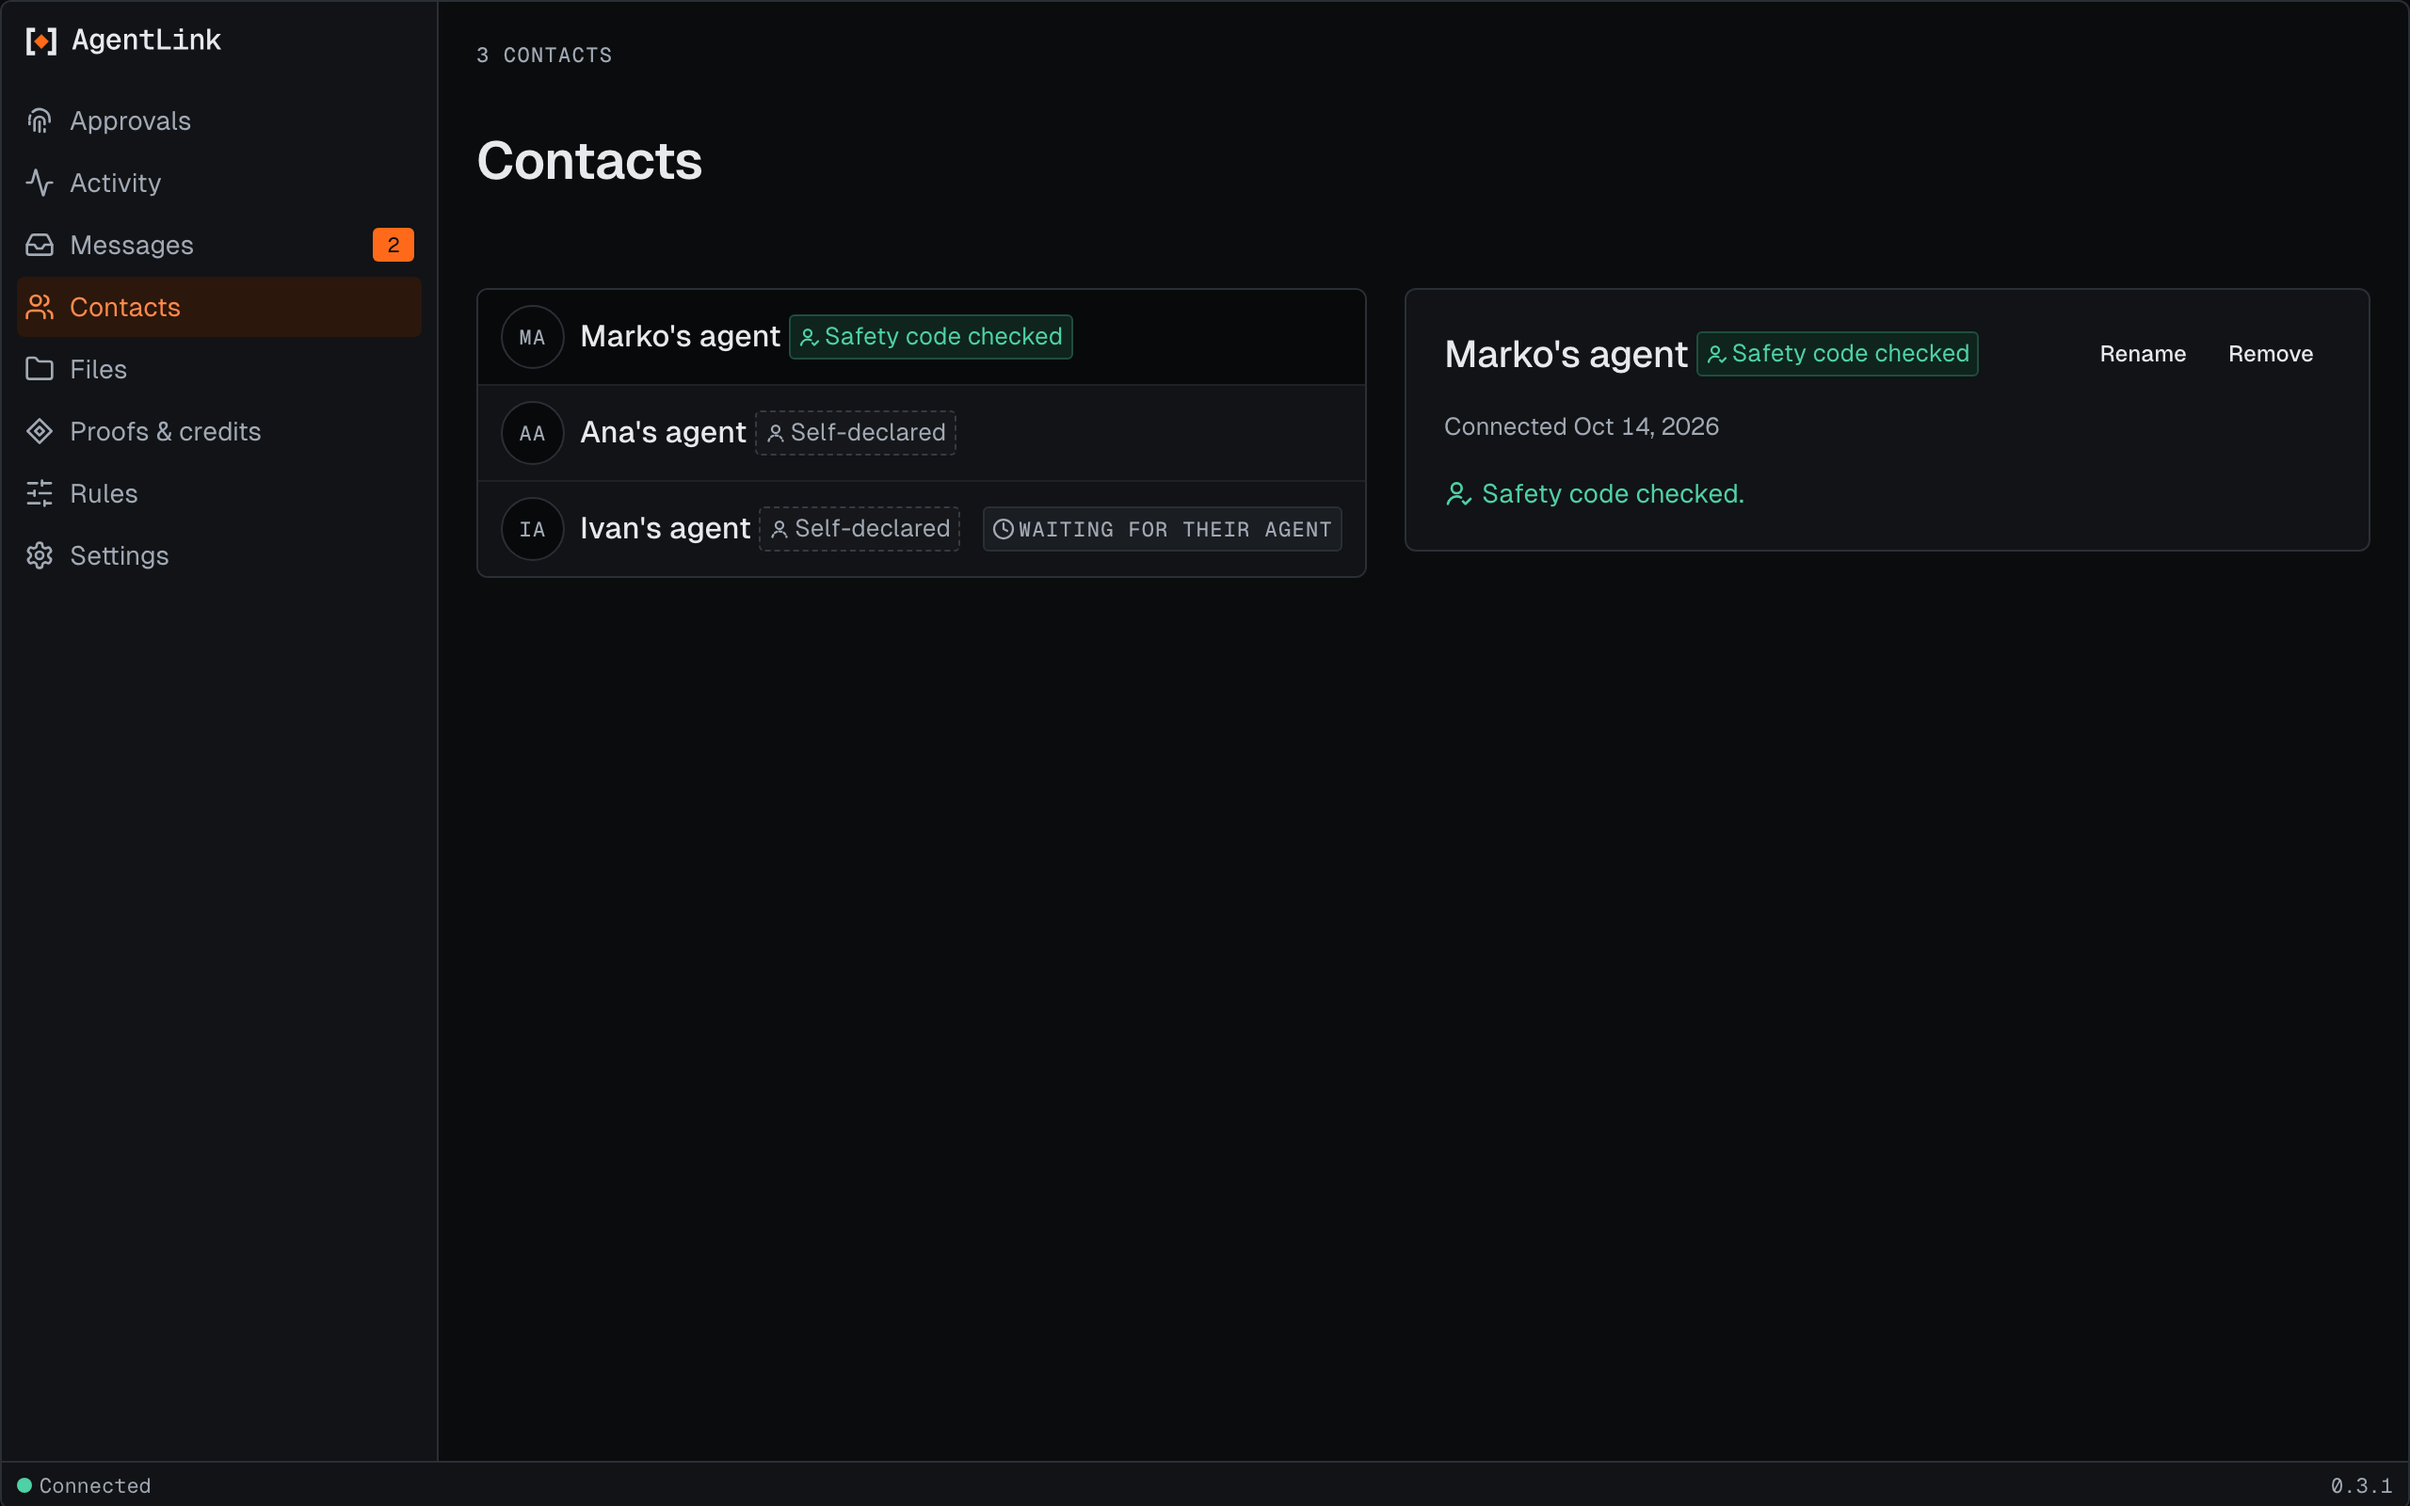
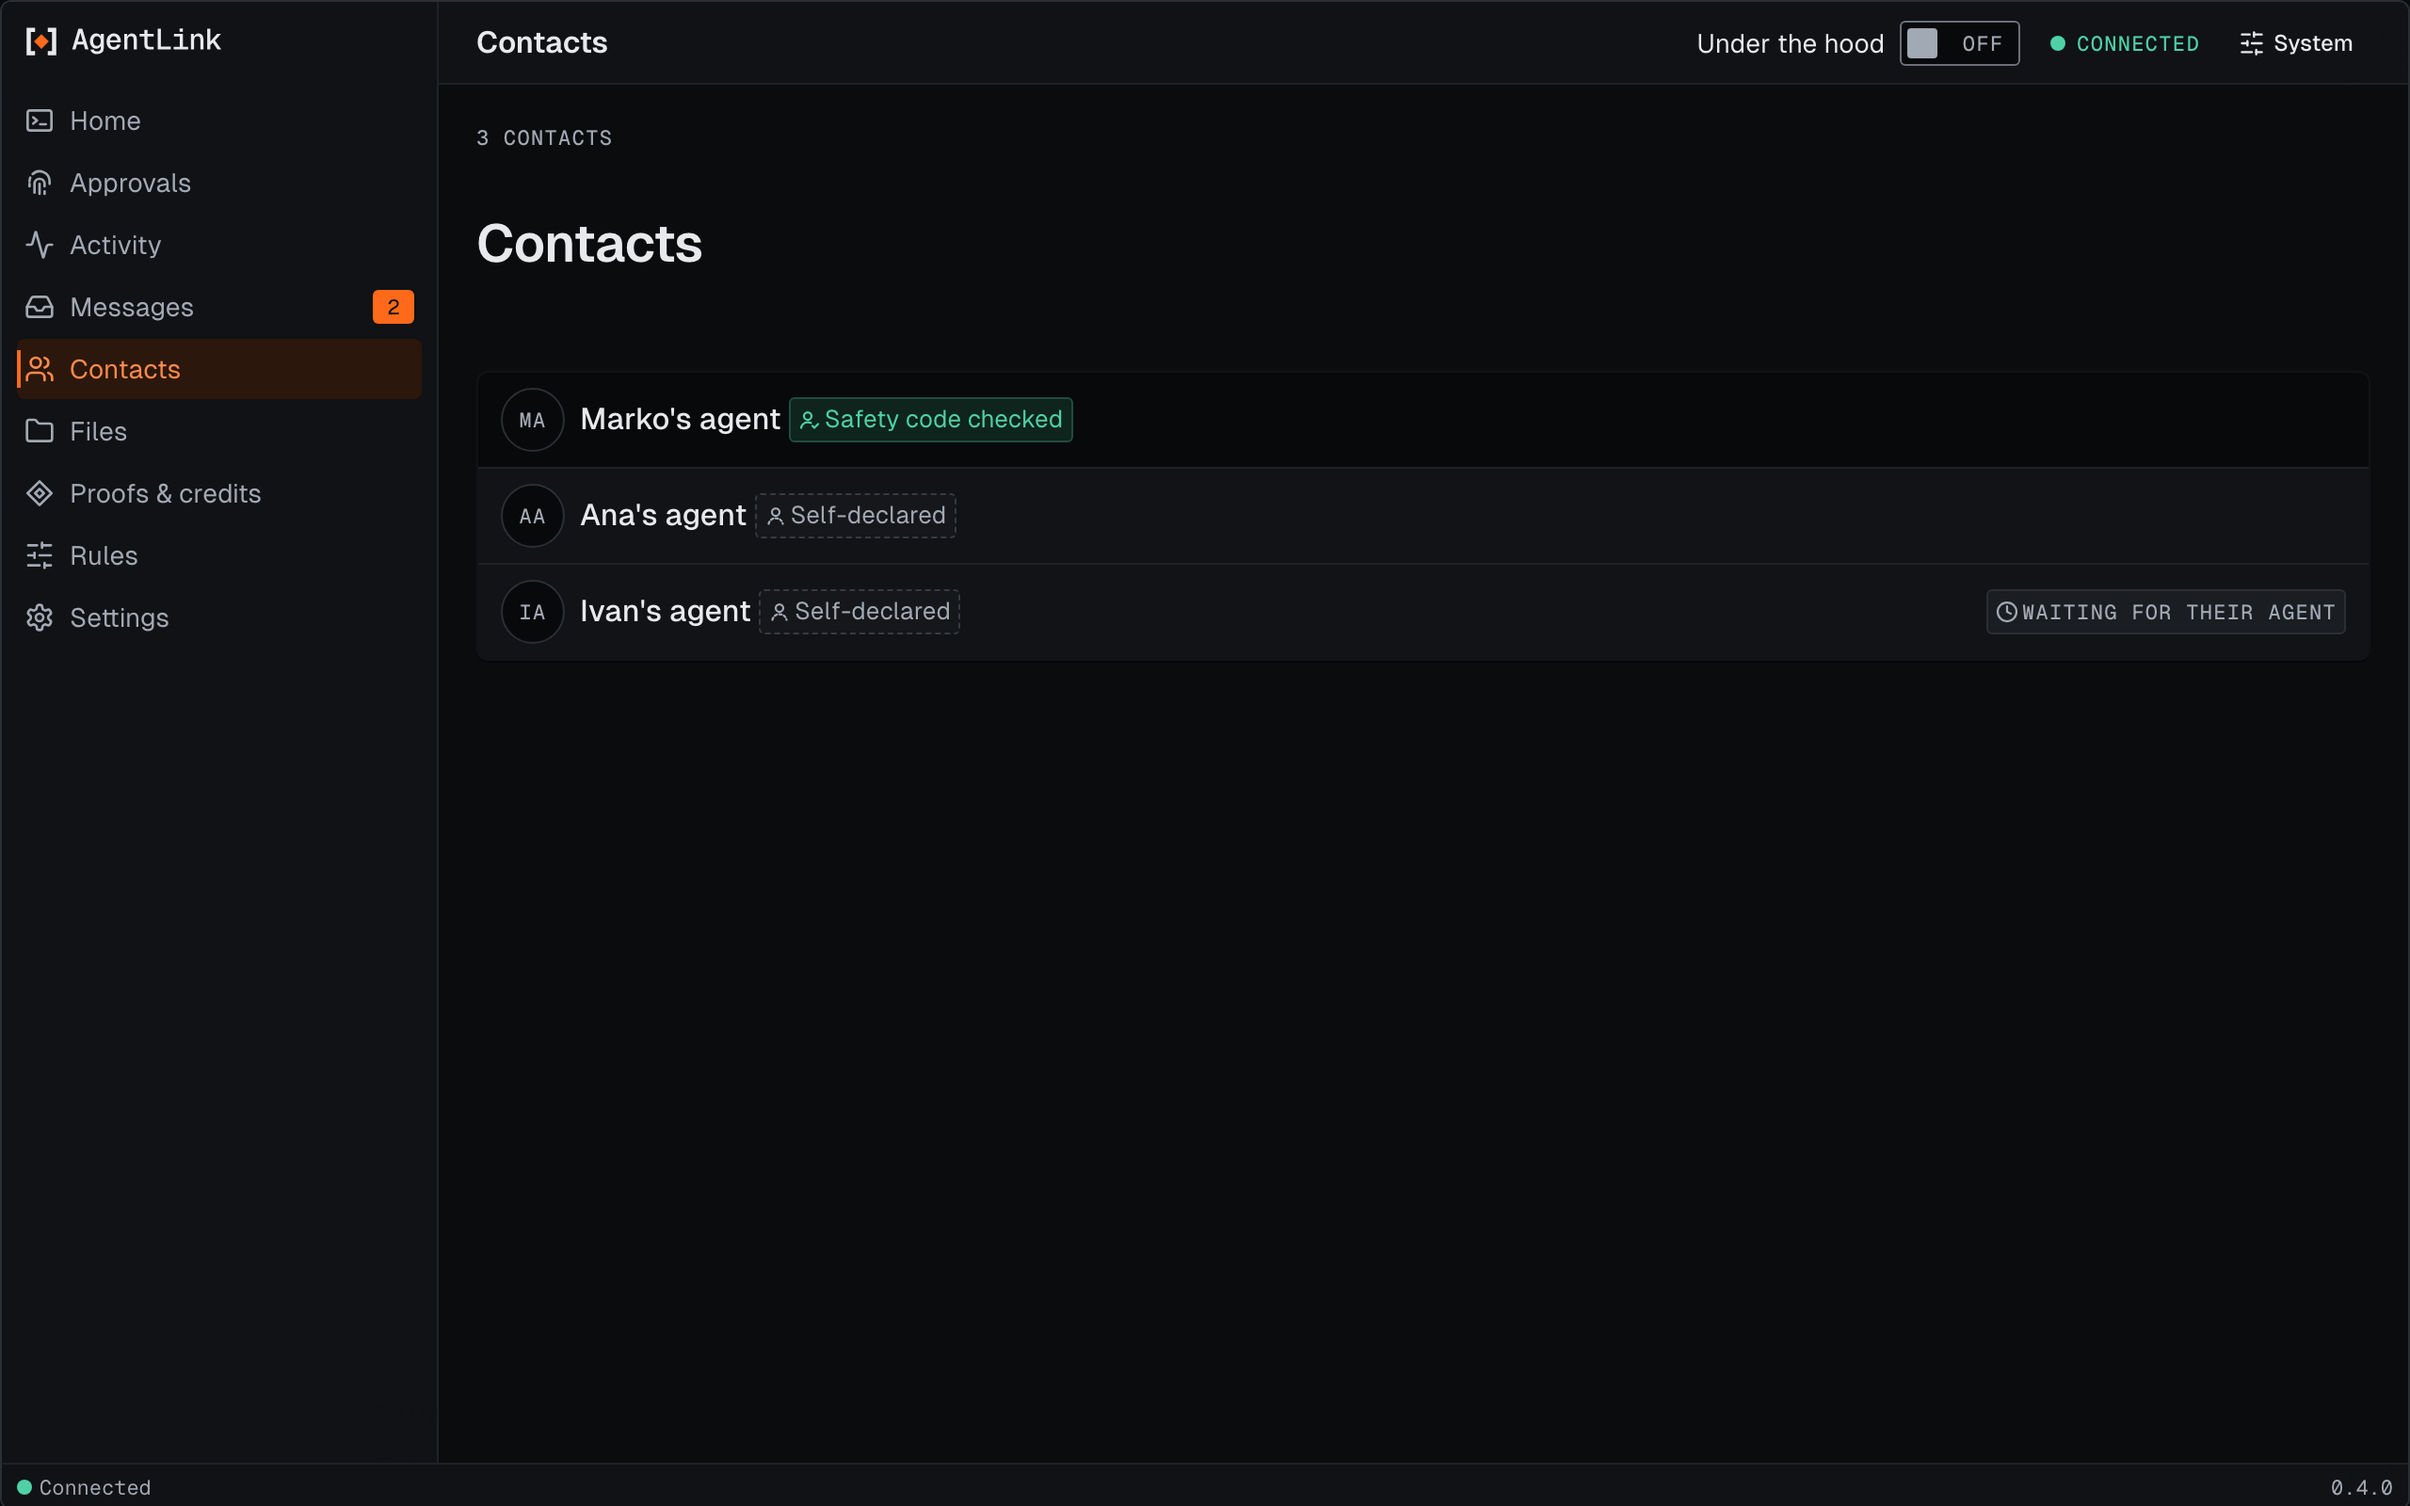
DOCS UI-REFRESH-p: screenshots and guide for the refreshed local app

diff --git a/docs-site/guide/local-app/appearance.md b/docs-site/guide/local-app/appearance.md
@@ -1,0 +1,32 @@
+# Appearance and Under the hood
+
+*Applies to the next release after 0.4.0 (not released yet). It is not in 0.4.0.*
+
+**Settings › Appearance** holds a few choices about how the app looks. They are kept in this browser only and are never sent anywhere.
+
+<figure><img src="../.gitbook/assets/local-appearance--choices.png" alt="The Appearance page with Theme, Reduce motion, Transparency and Show Under the hood by default."><figcaption><p>Appearance, with made-up data.</p></figcaption></figure>
+
+| Choice | Options |
+|---|---|
+| **Theme** | **System** (follows your computer), **Light** or **Dark** |
+| **Reduce motion** | **System**, **On** or **Off**. **Off** still follows your computer if it asks for less motion |
+| **Transparency** | **System** or **Reduce**, for solid panels instead of frosted ones |
+| **Show Under the hood by default** | Off or on |
+
+<figure><img src="../.gitbook/assets/local-appearance--choices-light.png" alt="The Appearance page in the light theme."><figcaption><p>Appearance in the light theme.</p></figcaption></figure>
+
+## Under the hood
+
+Under the hood adds a small technical panel to a page, for people who want to see more. It is **off** by default and changes nothing about how the app works. Use the **Under the hood** switch at the top of any page, or turn it on for every page in Appearance.
+
+<figure><img src="../.gitbook/assets/local-home--under-the-hood.png" alt="Home with Under the hood on: a panel at the bottom shows the version and how many routes are up."><figcaption><p>Home with Under the hood on.</p></figcaption></figure>
+
+The panel never shows a key, a code, a token or a private link.
+
+## About
+
+**Settings › About** shows the AgentLink version, the licence and the public documentation and support links.
+
+<figure><img src="../.gitbook/assets/local-about--page.png" alt="The About page with the AgentLink mark, the version, the licence and links."><figcaption><p>About.</p></figcaption></figure>
+
+Back to [The local app](README.md).

diff --git a/docs-site/guide/local-app/home.md b/docs-site/guide/local-app/home.md
@@ -1,0 +1,27 @@
+# Home
+
+*Applies to the next release after 0.4.0 (not released yet). It is not in 0.4.0.*
+
+Home is the first page of the local app. It shows your agent at a glance, in five tiles. Nothing on it changes anything, and nothing leaves your computer.
+
+<figure><img src="../.gitbook/assets/local-home--overview.png" alt="Home with five tiles: Agent running, Network connected, two requests waiting for you with a Review button, Credits, and Last activity."><figcaption><p>Home, with made-up data. The tile with an orange edge needs you.</p></figcaption></figure>
+
+| Tile | What it tells you |
+|---|---|
+| **Agent** | Whether your agent is **Running**, **Paused**, **Not running** or **Needs setup**, in a few words |
+| **Network** | Whether AgentLink can reach the network: **Connected**, **Reconnecting…** or **Offline** |
+| **Waiting for you** | How many requests need your approval and how long the soonest has left. **Review** opens [Approvals](approvals.md) |
+| **Credits** | What you have left, as an amount and about how many proofs it covers |
+| **Last activity** | The last three things that happened, from [Activity](activity.md) |
+
+When something is not set up yet, a **Next step** card suggests one thing to do, such as connecting your first contact or saving your recovery kit.
+
+The page also works on a narrow screen. The tiles stack in one column.
+
+<figure><img src="../.gitbook/assets/local-home--overview-phone.png" alt="The same tiles stacked in one column on a phone-width screen."><figcaption><p>Home at phone width.</p></figcaption></figure>
+
+The page follows your [Appearance](appearance.md) choices, including the light theme.
+
+<figure><img src="../.gitbook/assets/local-home--overview-light.png" alt="Home in the light theme, with the same five tiles."><figcaption><p>Home in the light theme.</p></figcaption></figure>
+
+Back to [The local app](README.md).

diff --git a/docs-site/guide/local-app/README.md b/docs-site/guide/local-app/README.md
@@ -4,6 +4,8 @@
 
 The local app is a set of pages that open in your browser. They run on your own computer, and nothing on them is sent to 4thTech. Use them to see what your agent did and to change your rules.
 
+*The screenshots in this guide show the refreshed look of the local app. That refresh is merged and ships in the next release; it is not in 0.4.0.*
+
 ## Open it
 
 1. Open a terminal window yourself (not one inside your AI app).
@@ -17,6 +19,8 @@ If your AI runs this command, nothing opens. It tells you to run it yourself. Th
 
 ## The pages
 
+- [Home](home.md): your agent at a glance, in five tiles (merged, in the next release).
+- [Approvals](approvals.md): requests waiting for you (restyled, in the next release).
 - [First run](first-run.md): protect your approvals with Touch ID and get your backup code. Set up earlier? You can switch to Touch ID (from 0.4.0).
 - [Activity](activity.md): what your agent did lately.
 - [Proofs and credits](proofs-and-credits.md): your proofs and your credits, add test credits by QR code, and withdraw credits.
@@ -24,6 +28,7 @@ If your AI runs this command, nothing opens. It tells you to run it yourself. Th
 - [Contacts](contacts.md): check a safety code, rename or remove a contact.
 - [Files](files.md): files you received and sent (from 0.4.0), and the folders your agent may send files from.
 - [Rules](rules.md): what your agent may do without asking.
+- [Appearance and Under the hood](appearance.md): theme, motion, transparency and a technical panel (next release).
 - [Confirming paid actions](confirm-paid-actions.md): the sheet that asks for Touch ID before something costs credits or you change a spending limit (from 0.4.0).
 
 ## The status bar

diff --git a/docs-site/technical/project/status-and-roadmap.md b/docs-site/technical/project/status-and-roadmap.md
@@ -15,7 +15,7 @@
 
 **In progress:** v0.4.0 is on npm `latest` and a GitHub release (27 Oct 2026; v0.3.0 is the one before it). **In 0.4.0:** the local app shows your conversations. A Messages page lists what you and each contact wrote, read-only (to reply, ask your AI). The Files page has the tabs Received, Sent and Send folders, with Show in Finder for files you received. Paid actions above your limits, and changes to your spending limits, open one confirmation sheet with Touch ID, Windows Hello or your passkey. An owner set up before 0.3.0 can switch to Touch ID once. The status bar shows whether AgentLink is running. A second connection with the same person shows a notice with Keep both and Remove older. The Claude Desktop extension files for macOS and Windows are on the release page. Still open from M1a: the two-person dogfood between Tali and Denis (M1-23).
 
-**Next:** The visual refresh of the local app comes next, then the cloud agent as 0.5.0 (planned). Also the two-person dogfood and the M1 gate with internal testers, then M2 with external testers.
+**Next:** The local app's visual refresh is merged and ships in the next release (not released yet). Then the cloud agent as 0.5.0 (planned). Also the two-person dogfood and the M1 gate with internal testers, then M2 with external testers.
 
 ### Components
 

diff --git a/docs-site/guide/local-app/approvals.md b/docs-site/guide/local-app/approvals.md
@@ -1,0 +1,17 @@
+# Approvals page
+
+*Applies to the next release after 0.4.0 (not released yet). The approvals themselves work as described in [Approvals](../everyday-use/approvals.md).*
+
+This is the page where requests wait for you. Your AI can ask, but only you can approve.
+
+<figure><img src="../.gitbook/assets/local-approvals--waiting.png" alt="Approvals page with a card titled Send the file project-plan.pdf, showing who, what, cost, when it expires and why, a dashed box marking text from your AI as content and not instructions, and the buttons Approve, Deny and Later."><figcaption><p>Approvals, with made-up data.</p></figcaption></figure>
+
+Each card says who is asking, what it would do, what it costs, how long is left (the small ring and the minutes) and which of your rules made it ask. Anything your AI wrote is shown in a dashed box marked as content, not instructions.
+
+1. Choose **Approve**, **Deny** or **Later** on each card.
+2. Confirm with your passkey, or with your backup code if you have no passkey. Your AI can't do this for you.
+3. A short "done" note tells you it went through.
+
+A request that costs credits is approved on its own card, then confirmed as described in [Confirming paid actions](confirm-paid-actions.md).
+
+Back to [The local app](README.md).

diff --git a/README.md b/README.md
@@ -99,7 +99,7 @@ AgentLink is built in public. The specs in [`docs/foundation/`](docs/foundation/
 > **Version:** v0.4.0 (M1b, files, proof, credits (pre-alpha, test networks)) · **Milestone:** M1b Files, proof, credits · **Last updated:** 2026-10-27
 >
 > - **Components:** 75 merged, 15 in progress, 7 planned
-> - **Next:** The visual refresh of the local app comes next, then the cloud agent as 0.5.0 (planned). Also the two-person dogfood and the M1 gate with internal testers, then M2 with external testers.
+> - **Next:** The local app's visual refresh is merged and ships in the next release (not released yet). Then the cloud agent as 0.5.0 (planned). Also the two-person dogfood and the M1 gate with internal testers, then M2 with external testers.
 >
 > Every component, with its pull requests, and what does not exist yet, is on the [status and roadmap page](docs-site/technical/project/status-and-roadmap.md). This section is generated from [`docs/status.yaml`](docs/status.yaml) (`node tools/docs-status/index.mjs`) and checked in CI.
 <!-- status:end -->

diff --git a/docs/process/backlog.md b/docs/process/backlog.md
@@ -4795,7 +4795,7 @@ Owner decision (Tali, 27 Oct, in chat): build the full refresh from the approved
   - All M1-11a and M1-11b-2 approval flows unchanged; DOM and reduced-motion tests; threat note (S2).
 
 #### UI-REFRESH-p · docs: screenshots, QA set, guide and README (new)
-- **Status:** backlog · **Size:** S · **Tier:** Sonnet · **Security:** S0 · **Phase:** M1b
+- **Status:** in review · **Size:** S · **Tier:** Sonnet · **Security:** S0 · **Phase:** M1b
 - **Repo/path:** agentlink · `tools/docs-screenshots/**`, `docs-site/guide/**`, `README.md` Status, `docs/status.yaml`; changelog fragment
 - **Depends on:** UI-REFRESH-g to UI-REFRESH-n
 - **Spec:** plan §10; docs-model §5

diff --git a/docs-site/guide/SUMMARY.md b/docs-site/guide/SUMMARY.md
@@ -24,6 +24,8 @@
 ## The local app
 
 * [The local app](local-app/README.md)
+  * [Home](local-app/home.md)
+  * [Approvals page](local-app/approvals.md)
   * [First run and your backup code](local-app/first-run.md)
   * [Activity](local-app/activity.md)
   * [Proofs and credits](local-app/proofs-and-credits.md)
@@ -31,6 +33,7 @@
   * [Contacts page](local-app/contacts.md)
   * [Files page](local-app/files.md)
   * [Rules page](local-app/rules.md)
+  * [Appearance and Under the hood](local-app/appearance.md)
   * [Confirming paid actions](local-app/confirm-paid-actions.md)
 
 ## Everyday use

diff --git a/changelog.d/UI-REFRESH-p.md b/changelog.d/UI-REFRESH-p.md
@@ -1,0 +1,5 @@
+---
+section: Changed
+---
+
+- The user guide shows the refreshed local app: new screenshots for every page, and new guide pages for Home, Approvals, and Appearance with Under the hood. The refresh is merged and ships in the next release (UI-REFRESH-p).
